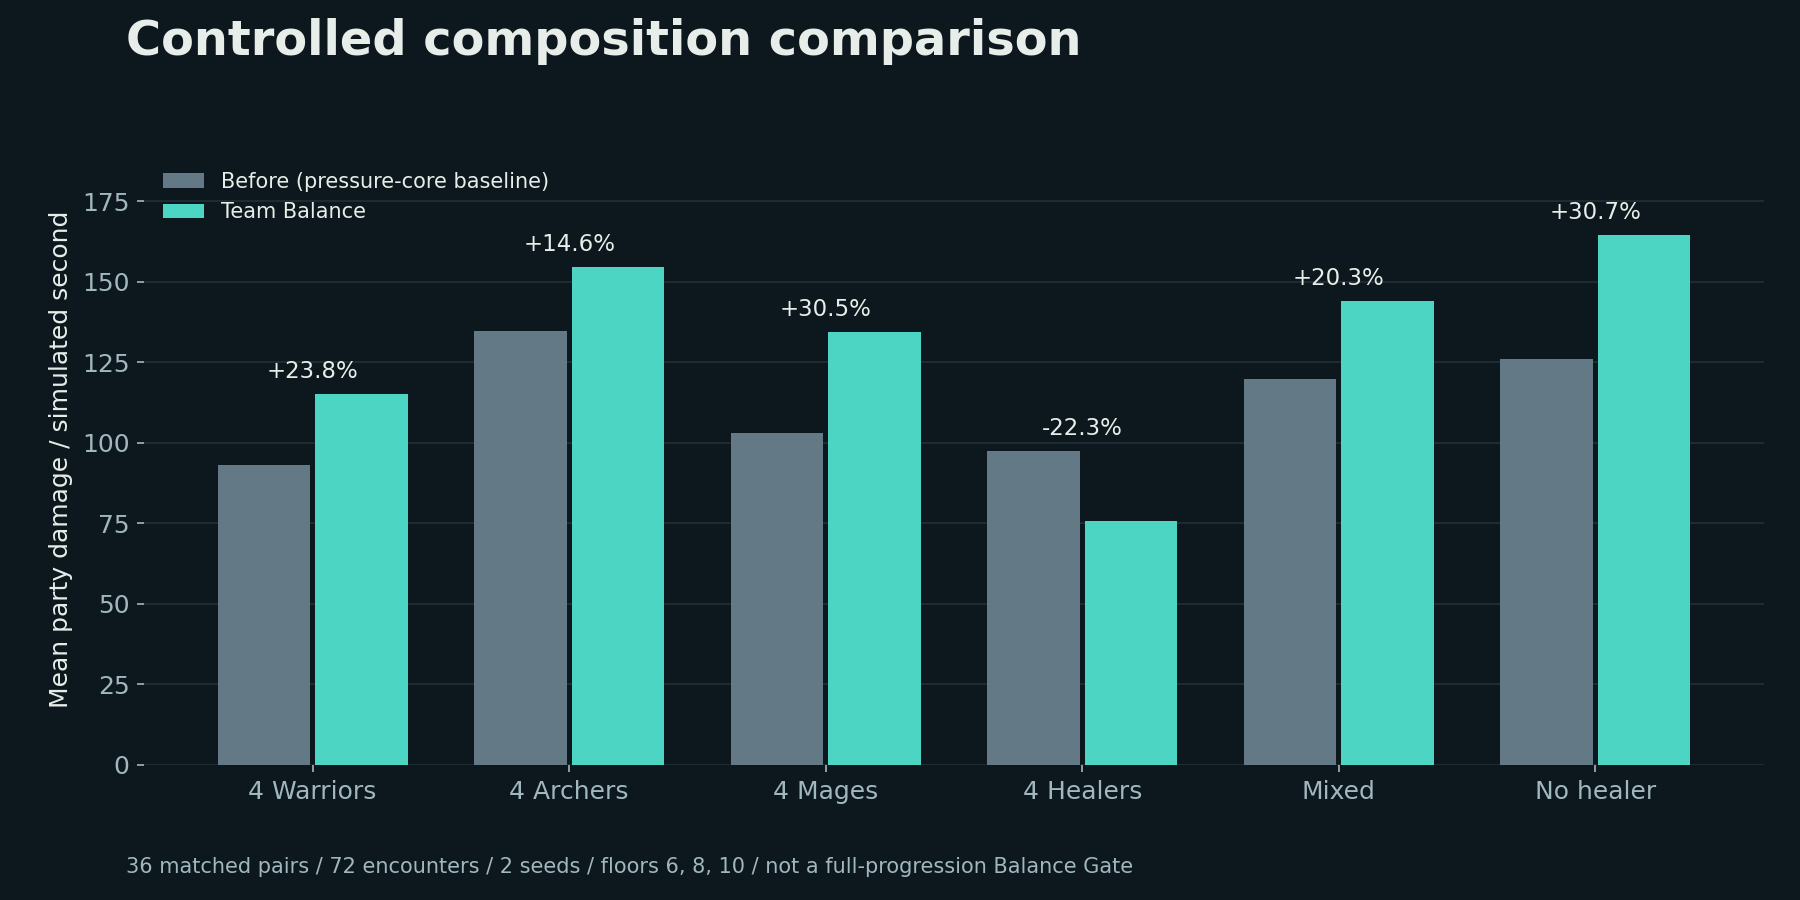
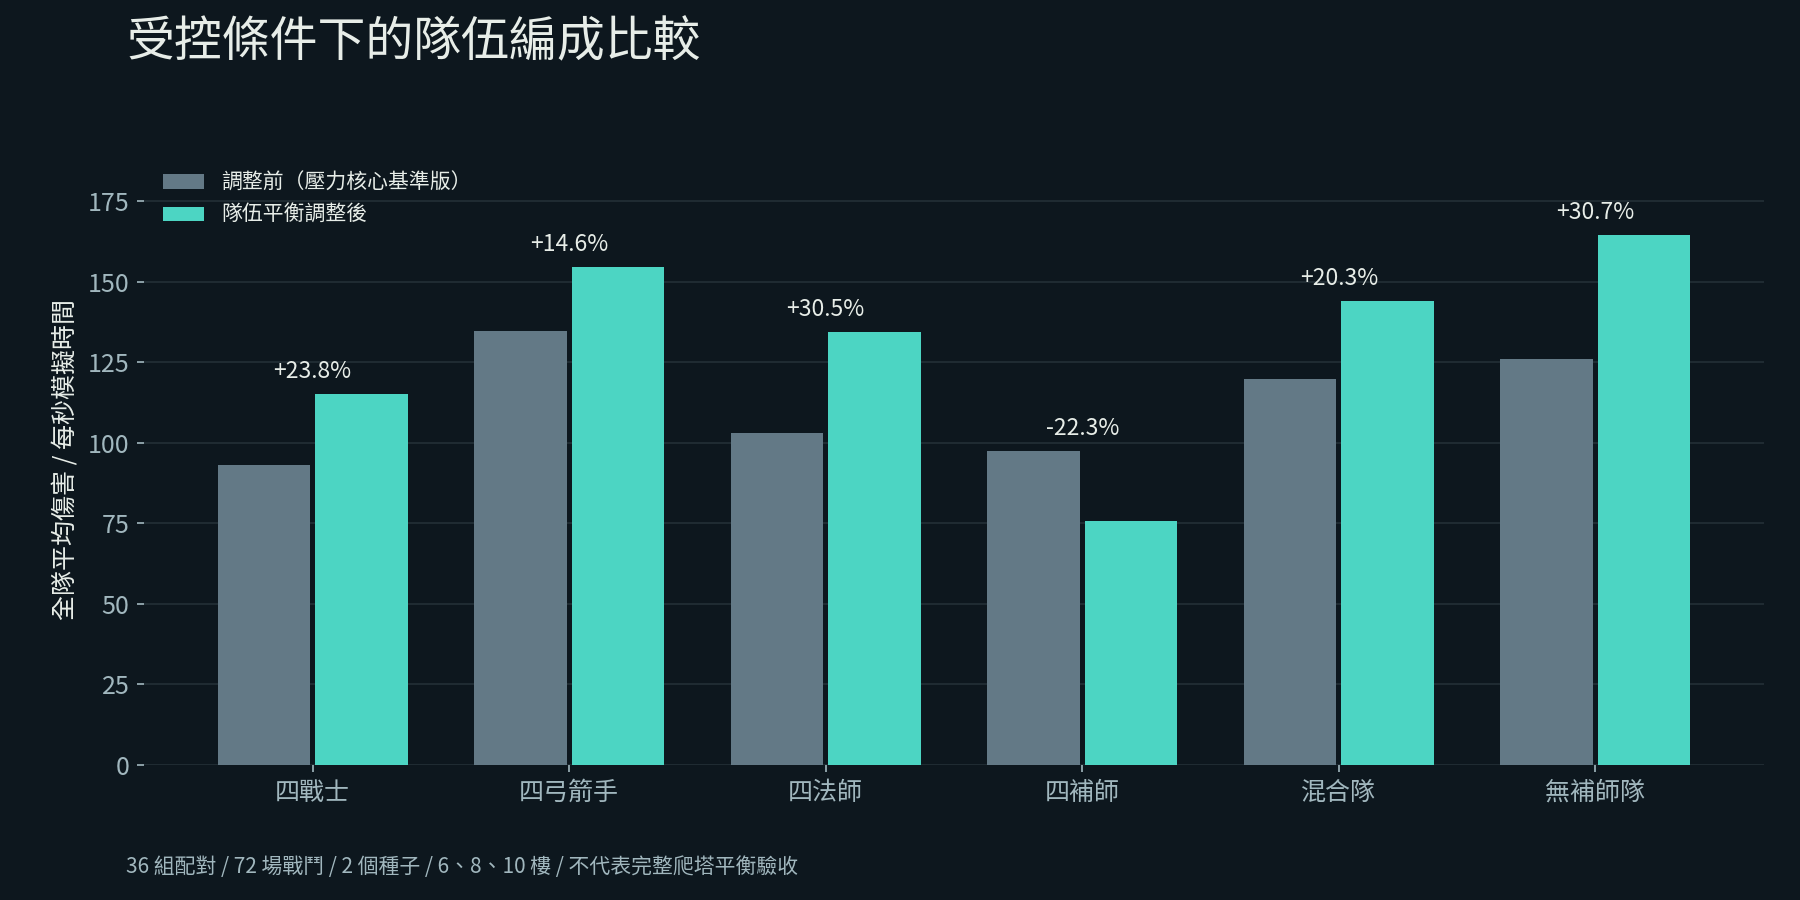
docs: localize portfolio diagrams into Traditional Chinese

diff --git a/Tools/generate-portfolio-diagrams.py b/Tools/generate-portfolio-diagrams.py
@@ -1,0 +1,194 @@
+"""Render implementation-grounded portfolio diagrams; no gameplay screenshots are edited.
+
+Requires Pillow and matplotlib. Run from any directory:
+    python Tools/generate-portfolio-diagrams.py --locale zh-TW
+    python Tools/generate-portfolio-diagrams.py --locale en
+The bundled Noto CJK font and its OFL remain in UnityProject/Assets/Resources/Fonts.
+"""
+import argparse
+from pathlib import Path
+from PIL import Image,ImageDraw,ImageFont
+import json, math
+source=Path(__file__).resolve().parents[1];target=source
+parser=argparse.ArgumentParser(description=__doc__);parser.add_argument('--locale',choices=['zh-TW','en'],default='zh-TW');locale=parser.parse_args().locale
+out=target/'Media/Diagrams'
+if locale=='en':out=out/'en'
+out.mkdir(parents=True,exist_ok=True)
+regular=str(source/'UnityProject/Assets/Resources/Fonts/NotoSansCJKtc-Regular.otf');bold=regular
+TRANSLATIONS = {'EMBER / ENGINEERING': 'EMBER / 工程設計',
+ 'Implementation grounded / Team Balance revision 43a2f70 / Oliver Chen': '依實際程式實作繪製 / 隊伍平衡版本 43a2f70 / '
+                                                                          'Oliver Chen',
+ 'From state to observable action': '從世界狀態到可觀察的行動',
+ 'One authoritative simulation. Separate goals, tactics and presentation.': '由同一套模擬維護世界狀態，分開處理目標、戰術與畫面呈現。',
+ 'EXPEDITION STATE': '遠征狀態',
+ 'Agents / Groups / seeded RNG': '角色 / 分隊 / 固定種子亂數',
+ 'Memory / Bonds / Inventory': '記憶 / 關係 / 背包',
+ 'Independent Boss and Rest state': '各隊獨立的 Boss 與休息層狀態',
+ 'DECISION CONTEXT': '決策情境',
+ 'Legal options + resources + time': '合法選項 + 資源 + 剩餘時間',
+ 'Personality + sourced knowledge': '個性 + 註明來源的知識',
+ 'Relationship evidence': '關係與共同經歷',
+ 'HIGH-LEVEL REASONER': '高階決策器',
+ 'Rule / utility goals by default': '預設依規則與效用評分選擇目標',
+ 'Optional bounded LLM gateway': '可選用受限制的 LLM 決策介面',
+ 'Validated decision proposals': '提出經過合法性檢查的決策',
+ 'LOCAL EXECUTION': '行動執行',
+ 'Combat / exploration / social': '戰鬥 / 探索 / 社交',
+ 'Danger, legality and resources': '檢查危險、合法性與資源',
+ 'Team support and navigation': '隊伍支援與路徑移動',
+ 'SIMULATION UPDATE': '模擬更新',
+ 'Fixed-step authoritative state': '以固定時間步更新世界狀態',
+ 'Events / skill and damage results': '事件 / 技能效果與傷害結果',
+ 'Save/load + RNG continuation': '存讀檔 + 延續亂數狀態',
+ 'UNITY PRESENTATION': 'Unity 畫面呈現',
+ 'Models / VFX / camera / UI': '模型 / 特效 / 鏡頭 / 介面',
+ 'Mind, Book and skill inspection': '查看思緒、死者之書與技能',
+ 'zh-TW / English string tables': '繁體中文 / 英文文字表',
+ 'state feedback': '狀態回饋',
+ 'EVIDENCE & VALIDATION': '工程證據與驗證',
+ 'Telemetry, bounded fixtures, process status and build identity': '遙測資料、有界測試情境、程序狀態與成品版本識別',
+ 'An Agent chooses; the engine checks': 'Agent 選擇行動，引擎負責檢查',
+ 'Different update rates for goals, tactics and immediate safety.': '目標、戰術與即時安全檢查，各自以不同頻率更新。',
+ '01 / OBSERVE & FILTER': '01 / 觀察與篩選',
+ 'HP / MP / remaining time / known facilities': '生命 / 魔力 / 剩餘時間 / 已知設施',
+ 'Generate only allowed high-level options': '只產生目前允許的高階行動選項',
+ '02 / SCORE GOALS': '02 / 目標評分',
+ 'Personality + needs + time + relationships': '個性 + 需求 + 時間 + 關係',
+ 'Typical goal cadence: 1.5 simulated seconds': '一般目標更新間隔：1.5 秒模擬時間',
+ '03 / LOCAL TACTICS': '03 / 即時戰術',
+ 'Attack / equipped skill / infusion / protection': '普攻 / 已裝備技能 / 灌注 / 保護',
+ 'Candidate refresh: about 0.6 seconds': '戰術候選更新間隔：約 0.6 秒',
+ '04 / VALIDATE & EXECUTE': '04 / 檢查與執行',
+ 'Life, mana, cooldown, weapon, target and range': '生命、魔力、冷卻、武器、目標與距離',
+ 'Update the world and record observable events': '更新世界，記錄可供觀察的事件',
+ 'IMMEDIATE SAFETY': '即時安全檢查',
+ 'Each fixed tick (default 0.1 seconds)': '每個固定時間步檢查一次（預設 0.1 秒）',
+ 'Warned Boss areas / hazards / pressure cores': 'Boss 預警範圍 / 地面危險 / 壓力核心',
+ 'Move to reachable safe space before attacks': '攻擊前先移動到可達的安全位置',
+ 'TEAM COORDINATION': '隊伍協調',
+ 'Urgent rescue before avoidable damage': '優先搶救瀕死隊友，再考慮輸出',
+ 'Reserve pending healing; avoid duplicate shields': '預約治療目標，避免重複護盾',
+ 'Role-aware four-slot skill choices': '依隊伍角色分配四格技能',
+ 'CONTEXT CHANGES': '情境變化',
+ 'Death: stop acting and record witnessed moves': '死亡：停止行動，記錄親眼見過的招式',
+ 'Rest: search, discuss, work, route and escape': '休息層：搜尋、討論、製作、移動與撤離',
+ 'A goal can be overridden by safety or legality': '安全與合法性檢查可以改變原定目標',
+ 'Finite memories; explicit inheritance': '有限的記憶，需要主動閱讀才能傳承',
+ 'Observer access does not give Agents automatic knowledge.': '玩家能查看資訊，不代表 Agent 已自動取得這些知識。',
+ 'LIVING AGENT': '存活中的 Agent',
+ 'Personal experience / told information': '親身經歷 / 他人告知的資訊',
+ 'Bounded Knowledge + relationship events': '有限的知識容量 + 關係事件',
+ 'Source, confidence, age and importance': '來源、可信度、時間與重要性',
+ 'DEATH RECORD': '死亡紀錄',
+ 'Personality + actual situation': '個性 + 實際遭遇',
+ 'Only abilities personally witnessed': '只留下親眼見過的 Boss 招式',
+ 'Book of the Dead: bounded entries': '死者之書：保留有限筆紀錄',
+ 'NEXT LIFE': '下一輪生命',
+ 'Failure resets private run state': '挑戰失敗後重置個人輪迴狀態',
+ 'Book exists, but is not auto-learned': '遺書仍存在，但不會自動學會內容',
+ 'Read in a refuge to gain Book knowledge': '在休息層閱讀，才取得遺書知識',
+ 'PREPARATION': '提前準備',
+ 'Known threats influence counter skills': '已知威脅影響應對技能的選擇',
+ 'Unlocked four-slot loadout only': '限用已解鎖技能，維持四格配置',
+ 'Known moves get more dodge margin': '已知招式會預留更多閃避餘裕',
+ 'SUCCESS EXCEPTION': '通關後的保留例外',
+ 'Only living, genuinely completed tower survivors retain eligible memories and bonds.': '只有真正通關且仍存活的角色，才能保留符合條件的記憶與關係。',
+ 'Reading inherited advice is policy adaptation, not neural training.': '閱讀遺書會調整行動策略；目前不涉及神經網路訓練。',
+ '4 Warriors': '四戰士',
+ '4 Archers': '四弓箭手',
+ '4 Mages': '四法師',
+ '4 Healers': '四補師',
+ 'Mixed': '混合隊',
+ 'No healer': '無補師隊',
+ 'Before (pressure-core baseline)': '調整前（壓力核心基準版）',
+ 'Team Balance': '隊伍平衡調整後',
+ 'Mean party damage / simulated second': '全隊平均傷害 / 每秒模擬時間',
+ 'Controlled composition comparison': '受控條件下的隊伍編成比較',
+ '36 matched pairs / 72 encounters / 2 seeds / floors 6, 8, 10 / not a full-progression Balance Gate': '36 '
+                                                                                                       '組配對 '
+                                                                                                       '/ 72 '
+                                                                                                       '場戰鬥 '
+                                                                                                       '/ 2 '
+                                                                                                       '個種子 '
+                                                                                                       '/ '
+                                                                                                       '6、8、10 '
+                                                                                                       '樓 / '
+                                                                                                       '不代表完整爬塔平衡驗收'}
+def tr(text):return TRANSLATIONS.get(text,text) if locale=='zh-TW' else text
+BG='#0d171e';CARD='#182831';TEXT='#e7ede8';MUTED='#a1b7be';ORANGE='#ffa647';CYAN='#4cd5c3';PURPLE='#ae98ff'
+def font(n,b=False):return ImageFont.truetype(bold if b else regular,n)
+def canvas(title,subtitle,w=1600,h=1000):
+    im=Image.new('RGB',(w,h),BG);d=ImageDraw.Draw(im)
+    d.text((60,38),tr('EMBER / ENGINEERING'),font=font(20,True),fill=ORANGE)
+    d.text((60,78),tr(title),font=font(46,True),fill=TEXT)
+    d.text((60,143),tr(subtitle),font=font(22),fill=MUTED)
+    d.line((60,190,w-60,190),fill='#304650',width=2)
+    d.text((60,h-48),tr('Implementation grounded / Team Balance revision 43a2f70 / Oliver Chen'),font=font(18),fill=MUTED)
+    return im,d
+def box(d,r,title,lines,color=CYAN):
+    x,y,xx,yy=r;d.rounded_rectangle(r,radius=15,fill=CARD,outline='#314952',width=2)
+    d.rounded_rectangle((x,y,x+5,yy),radius=2,fill=color)
+    d.text((x+24,y+20),tr(title),font=font(26,True),fill=TEXT)
+    for i,line in enumerate(lines):
+        text=tr(line);size=20
+        while font(size).getlength(text)>xx-x-48 and size>16:size-=1
+        assert font(size).getlength(text)<=xx-x-48,(title,text)
+        d.text((x+24,y+62+i*29),text,font=font(size),fill=MUTED)
+def arrow(d,a,b,color=CYAN):
+    d.line([a,b],fill=color,width=3);theta=math.atan2(b[1]-a[1],b[0]-a[0])
+    tip=[b,(b[0]-13*math.cos(theta-.5),b[1]-13*math.sin(theta-.5)),(b[0]-13*math.cos(theta+.5),b[1]-13*math.sin(theta+.5))];d.polygon(tip,fill=color)
+def save(im,name):im.save(out/(name+'.png'),optimize=True)
+im,d=canvas('From state to observable action','One authoritative simulation. Separate goals, tactics and presentation.')
+box(d,(60,245,435,415),'EXPEDITION STATE',['Agents / Groups / seeded RNG','Memory / Bonds / Inventory','Independent Boss and Rest state'])
+box(d,(560,245,1010,415),'DECISION CONTEXT',['Legal options + resources + time','Personality + sourced knowledge','Relationship evidence'])
+box(d,(1135,245,1540,415),'HIGH-LEVEL REASONER',['Rule / utility goals by default','Optional bounded LLM gateway','Validated decision proposals'],PURPLE)
+arrow(d,(435,330),(560,330));arrow(d,(1010,330),(1135,330))
+box(d,(1135,520,1540,720),'LOCAL EXECUTION',['Combat / exploration / social','Danger, legality and resources','Team support and navigation'],ORANGE)
+box(d,(560,520,1010,720),'SIMULATION UPDATE',['Fixed-step authoritative state','Events / skill and damage results','Save/load + RNG continuation'])
+box(d,(60,520,435,720),'UNITY PRESENTATION',['Models / VFX / camera / UI','Mind, Book and skill inspection','zh-TW / English string tables'])
+arrow(d,(1340,415),(1340,520),ORANGE);arrow(d,(1135,620),(1010,620));arrow(d,(560,620),(435,620));arrow(d,(785,520),(785,455));d.text((674,433),tr('state feedback'),font=font(20),fill=MUTED)
+box(d,(560,800,1540,920),'EVIDENCE & VALIDATION',['Telemetry, bounded fixtures, process status and build identity'],PURPLE)
+arrow(d,(1010,710),(1110,800),PURPLE)
+save(im,'architecture')
+im,d=canvas('An Agent chooses; the engine checks','Different update rates for goals, tactics and immediate safety.',h=1120)
+box(d,(80,240,735,395),'01 / OBSERVE & FILTER',['HP / MP / remaining time / known facilities','Generate only allowed high-level options'])
+box(d,(80,440,735,595),'02 / SCORE GOALS',['Personality + needs + time + relationships','Typical goal cadence: 1.5 simulated seconds'],PURPLE)
+box(d,(80,640,735,795),'03 / LOCAL TACTICS',['Attack / equipped skill / infusion / protection','Candidate refresh: about 0.6 seconds'],ORANGE)
+box(d,(80,840,735,995),'04 / VALIDATE & EXECUTE',['Life, mana, cooldown, weapon, target and range','Update the world and record observable events'])
+for y in [395,595,795]:arrow(d,(400,y),(400,y+45))
+box(d,(855,240,1520,440),'IMMEDIATE SAFETY',['Each fixed tick (default 0.1 seconds)','Warned Boss areas / hazards / pressure cores','Move to reachable safe space before attacks'],ORANGE)
+box(d,(855,510,1520,710),'TEAM COORDINATION',['Urgent rescue before avoidable damage','Reserve pending healing; avoid duplicate shields','Role-aware four-slot skill choices'])
+box(d,(855,780,1520,995),'CONTEXT CHANGES',['Death: stop acting and record witnessed moves','Rest: search, discuss, work, route and escape','A goal can be overridden by safety or legality'],PURPLE)
+arrow(d,(855,345),(790,345),ORANGE);arrow(d,(790,345),(790,930),ORANGE);arrow(d,(790,930),(735,930),ORANGE)
+arrow(d,(855,620),(790,620));arrow(d,(1520,870),(1550,870),PURPLE)
+save(im,'decision-flow')
+im,d=canvas('Finite memories; explicit inheritance','Observer access does not give Agents automatic knowledge.',h=980)
+box(d,(60,255,505,450),'LIVING AGENT',['Personal experience / told information','Bounded Knowledge + relationship events','Source, confidence, age and importance'])
+box(d,(575,255,1020,450),'DEATH RECORD',['Personality + actual situation','Only abilities personally witnessed','Book of the Dead: bounded entries'],ORANGE)
+box(d,(1090,255,1540,450),'NEXT LIFE',['Failure resets private run state','Book exists, but is not auto-learned','Read in a refuge to gain Book knowledge'])
+arrow(d,(505,350),(575,350),ORANGE);arrow(d,(1020,350),(1090,350))
+box(d,(1090,585,1540,790),'PREPARATION',['Known threats influence counter skills','Unlocked four-slot loadout only','Known moves get more dodge margin'],PURPLE)
+box(d,(60,585,1020,790),'SUCCESS EXCEPTION',['Only living, genuinely completed tower survivors retain eligible memories and bonds.','Reading inherited advice is policy adaptation, not neural training.'],PURPLE)
+arrow(d,(1315,450),(1315,585),PURPLE)
+save(im,'memory-lifecycle')
+# Standard plotting tool for a scientific comparison, independent of screenshots.
+import matplotlib
+matplotlib.use('Agg')
+import matplotlib.pyplot as plt
+data=json.loads((target/'Evidence/team-balance-summary.json').read_text())['composition_summary']
+from matplotlib import font_manager
+font_manager.fontManager.addfont(regular)
+plt.rcParams.update({'font.family':font_manager.FontProperties(fname=regular).get_name(),'font.size':12})
+fig,ax=plt.subplots(figsize=(12,6),dpi=150);fig.set_facecolor(BG);ax.set_facecolor(BG)
+labels=[tr(s) for s in ['4 Warriors','4 Archers','4 Mages','4 Healers','Mixed','No healer']];x=list(range(6))
+b=[r['baseline']['mean_dps'] for r in data];c=[r['candidate']['mean_dps'] for r in data]
+ax.bar([v-.19 for v in x],b,.36,label=tr('Before (pressure-core baseline)'),color='#637986');ax.bar([v+.19 for v in x],c,.36,label=tr('Team Balance'),color=CYAN)
+for i,r in enumerate(data):ax.text(i,max(b[i],c[i])+5,f"{r['dps_change_percent']:+.1f}%",ha='center',color=TEXT,fontsize=11)
+ax.set_xticks(x,labels,color=TEXT);ax.tick_params(colors=MUTED);ax.set_ylabel(tr('Mean party damage / simulated second'),color=TEXT);ax.set_ylim(0,190);ax.grid(axis='y',alpha=.15,color=MUTED);ax.set_axisbelow(True)
+for spine in ax.spines.values():spine.set_visible(False)
+legend=ax.legend(loc='upper left',frameon=False,fontsize=10);plt.setp(legend.get_texts(),color=TEXT)
+fig.suptitle(tr('Controlled composition comparison'),color=TEXT,fontsize=23,fontweight='bold',x=.07,ha='left')
+fig.text(.07,.03,tr('36 matched pairs / 72 encounters / 2 seeds / floors 6, 8, 10 / not a full-progression Balance Gate'),color=MUTED,fontsize=10)
+fig.subplots_adjust(top=.83,bottom=.15,left=.08,right=.98);fig.savefig(out/'balance-comparison.png',facecolor=BG);plt.close(fig)
+
+print('Rendered four portfolio diagrams:',locale)

diff --git a/README.en.md b/README.en.md
@@ -31,7 +31,7 @@ Four autonomous adventurers fight, build relationships, leave memories behind, a
 
 The runtime separates high-level goals from local combat execution. A rule-based reasoner proposes a goal; the engine checks legality and applies safety, resource and team-coordination policies. An optional asynchronous LLM gateway proposes bounded decisions and falls back to local rules. It does not control animation or movement each frame.
 
-![System architecture: state, decisions, simulation, presentation and evidence](Media/Diagrams/architecture.png)
+![System architecture: state, decisions, simulation, presentation and evidence](Media/Diagrams/en/architecture.png)
 
 Read the [architecture](Docs/ARCHITECTURE.md), [Agent action pipeline](Docs/AGENT_DECISION_LOGIC.md), [worked algorithm examples](Docs/ALGORITHMS.md), or [memory and relationship design](Docs/MEMORY_RELATIONSHIPS.md).
 
